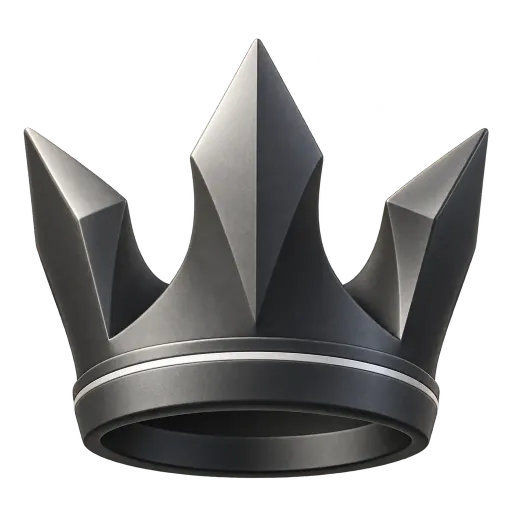
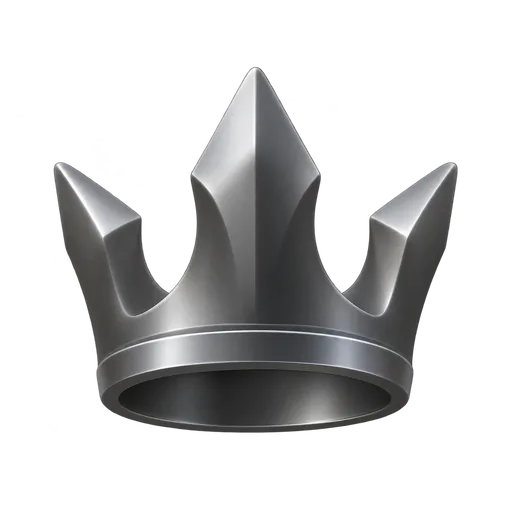
feat(spire): плитка Пика — одна готовая корона (графит в тёмной, платина в светлой), без слоя перекраски
Старый слой .accent давал рваный окрас в светлой теме. Теперь spire_tile — два готовых варианта целиком, 512 px, прозрачный фон, webp (18–19 КБ вместо 21–22 КБ + 7 КБ акцента). Слой .accent для Пика удалён, реестр пересобран, тест обновлён.

diff --git a/components/theme/themed_art_assets.generated.ts b/components/theme/themed_art_assets.generated.ts
@@ -50,6 +50,6 @@ export const THEMED_ART_GENERATED: Readonly<Partial<Record<string, ThemedArtSlot
   spire_rank_4: { dark: require('../../assets/images/v2art/dark/spire_rank_4.webp'), darkAccent: require('../../assets/images/v2art/dark/spire_rank_4.accent.webp'), light: require('../../assets/images/v2art/light/spire_rank_4.webp'), lightAccent: require('../../assets/images/v2art/light/spire_rank_4.accent.webp') },
   spire_rank_5: { dark: require('../../assets/images/v2art/dark/spire_rank_5.webp'), darkAccent: require('../../assets/images/v2art/dark/spire_rank_5.accent.webp'), light: require('../../assets/images/v2art/light/spire_rank_5.webp'), lightAccent: require('../../assets/images/v2art/light/spire_rank_5.accent.webp') },
   spire_rank_6: { dark: require('../../assets/images/v2art/dark/spire_rank_6.webp'), darkAccent: require('../../assets/images/v2art/dark/spire_rank_6.accent.webp'), light: require('../../assets/images/v2art/light/spire_rank_6.webp'), lightAccent: require('../../assets/images/v2art/light/spire_rank_6.accent.webp') },
-  spire_tile: { dark: require('../../assets/images/v2art/dark/spire_tile.webp'), darkAccent: require('../../assets/images/v2art/dark/spire_tile.accent.webp'), light: require('../../assets/images/v2art/light/spire_tile.webp'), lightAccent: require('../../assets/images/v2art/light/spire_tile.accent.webp') },
+  spire_tile: { dark: require('../../assets/images/v2art/dark/spire_tile.webp'), light: require('../../assets/images/v2art/light/spire_tile.webp') },
   today: { dark: require('../../assets/images/v2art/dark/today.webp'), darkAccent: require('../../assets/images/v2art/dark/today.accent.webp'), light: require('../../assets/images/v2art/light/today.webp'), lightAccent: require('../../assets/images/v2art/light/today.accent.webp') },
 };

diff --git a/tests/themed_art.test.ts b/tests/themed_art.test.ts
@@ -104,7 +104,8 @@ describe('first real assets (adfaa8c34) and set choice', () => {
     for (const brightness of ['dark', 'light'] as const) {
       const spire = resolveThemedArt('spire_tile', brightness);
       expect(spire.origin).toBe('v2art');
-      expect(spire.accent).not.toBeNull();
+      // зачем (владелец 04.11): плитка Пика — одна готовая корона (графит/платина), без слоя .accent и без перекраски по слоям — иначе окрас «рваный» в светлой теме
+      expect(spire.accent).toBeNull();
     }
   });
 
